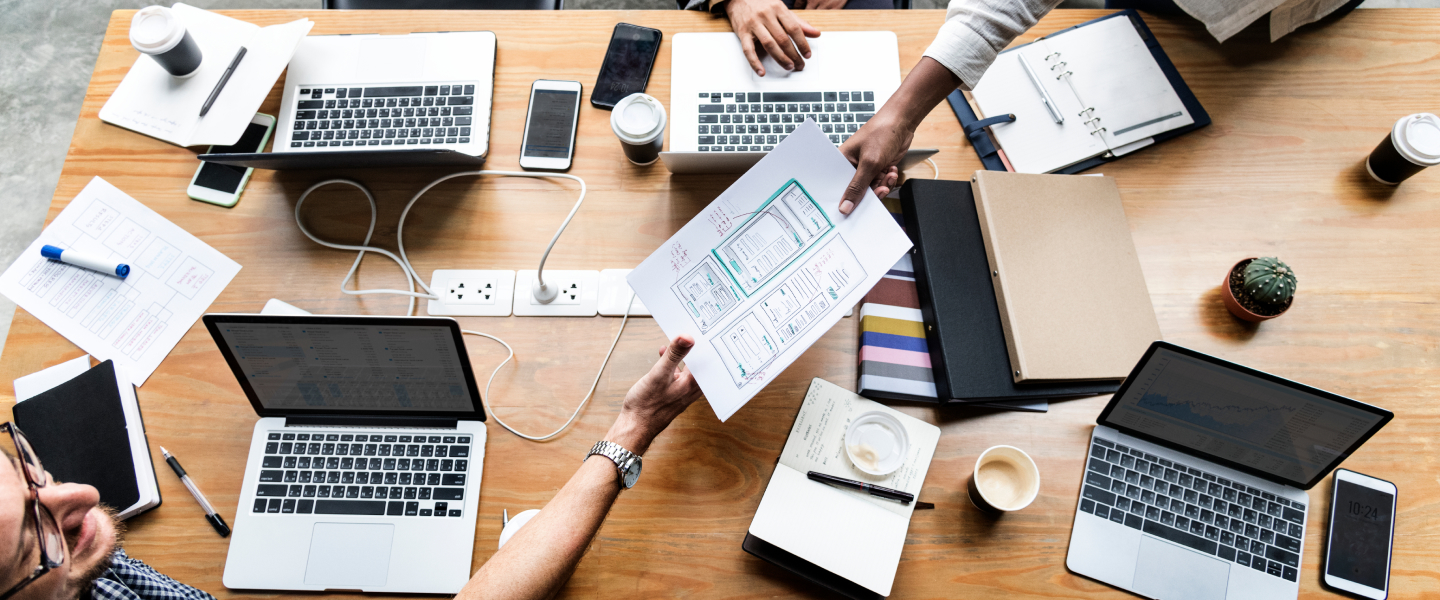
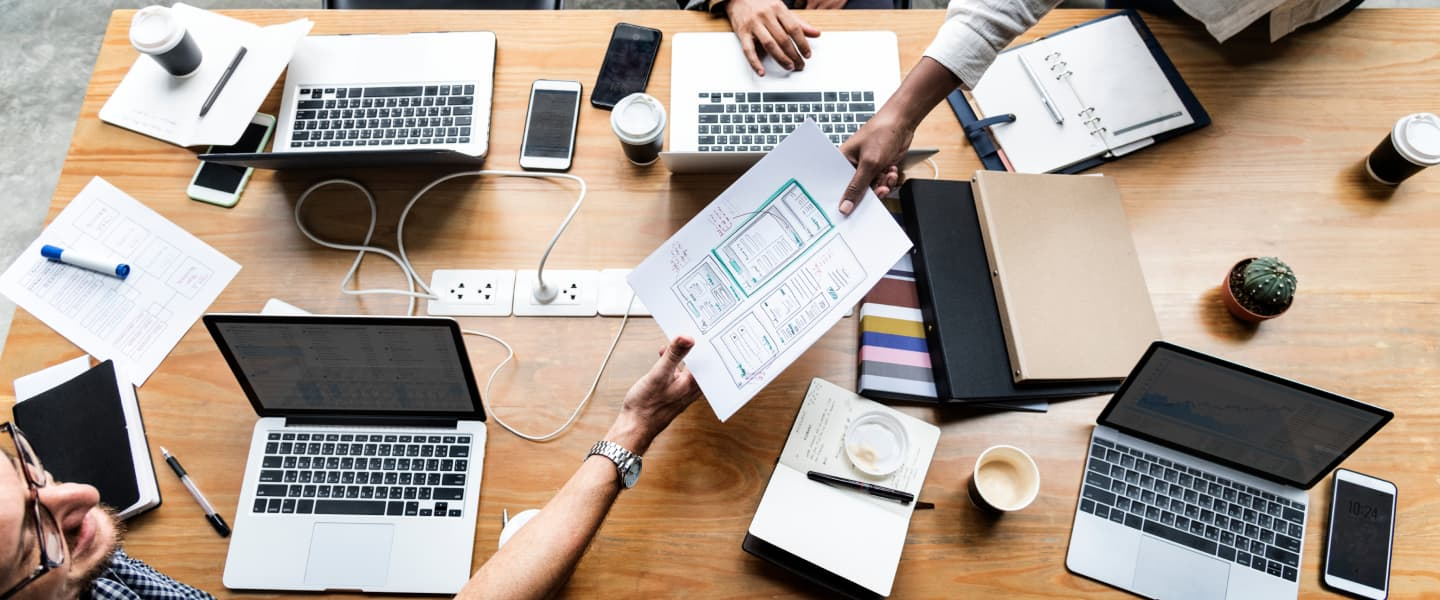
Add - Responsive background images for  Hero

diff --git a/css/media.css b/css/media.css
@@ -8,6 +8,16 @@
     margin-right: auto;
   }
 
+  .hero {
+    background-image: linear-gradient(rgba(46, 47, 66, 0.7), rgba(46, 47, 66, 0.7)), url(../images/hero-tab.jpg);
+  }
+
+  @media (min-device-pixel-ratio: 2), (min-resolution: 192dpi), (min-resolution: 2dppx) {
+    .hero {
+      background-image: linear-gradient(rgba(46, 47, 66, 0.7), rgba(46, 47, 66, 0.7)), url(../images/hero-tab-2x.jpg);
+    }
+  }
+
   .customers-item {
     /* width: calc(100% - 16px) /2; */
     flex-basis: calc((100% - 16px) / 2);
@@ -20,20 +30,30 @@
     width: 768px;
   }
 
+  .hero {
+    background-image: linear-gradient(rgba(46, 47, 66, 0.7), rgba(46, 47, 66, 0.7)), url(../images/hero.jpg);
+  }
+
+  @media (min-device-pixel-ratio: 2), (min-resolution: 192dpi), (min-resolution: 2dppx) {
+    .hero {
+      background-image: linear-gradient(rgba(46, 47, 66, 0.7), rgba(46, 47, 66, 0.7)), url(../images/hero-2x.jpg);
+    }
+  }
+
   .hero-title {
     max-width: 496px;
     font-size: 56px;
     line-height: calc(60 / 56);
     margin-bottom: 36px;
   }
-  
+
   .advantage-list {
     /* gap: 72px 24px; */
     column-gap: 24px;
     row-gap: 72px;
   }
 
-    .advantage-item-title {
+  .advantage-item-title {
     text-align: left;
   }
 
@@ -106,7 +126,7 @@
   .hero {
     padding-top: 188px;
     padding-bottom: 188px;
-     max-width: 1440px;
+    max-width: 1440px;
   }
 
   /* ------ */
@@ -176,7 +196,7 @@
   }
 
   .hero-title {
-    margin-bottom: 48px;  
+    margin-bottom: 48px;
   }
 
   .customers-item {

diff --git a/css/styles.css b/css/styles.css
@@ -205,7 +205,7 @@ body {
   /* mobile */
   padding-top: 112px;
   padding-bottom: 112px;
-  
+
   text-align: center;
 
   /* mobile - */
@@ -213,10 +213,16 @@ body {
   /* height: 600px; */
   margin-left: auto;
   margin-right: auto;
-  background-image: linear-gradient(rgba(46, 47, 66, 0.7), rgba(46, 47, 66, 0.7)), url(../images/hero.jpg);
+  background-image: linear-gradient(rgba(46, 47, 66, 0.7), rgba(46, 47, 66, 0.7)), url(../images/hero-mob.jpg);
   background-repeat: no-repeat;
   background-position: center;
   background-size: cover;
+}
+
+@media (min-device-pixel-ratio: 2), (min-resolution: 192dpi), (min-resolution: 2dppx) {
+  .hero {
+    background-image: linear-gradient(rgba(46, 47, 66, 0.7), rgba(46, 47, 66, 0.7)), url(../images/hero-mob-2x.jpg);
+  }
 }
 
 .hero-title {
@@ -1120,4 +1126,3 @@ body {
 }
 
 /* ==== media.css ========================================================== */
-
